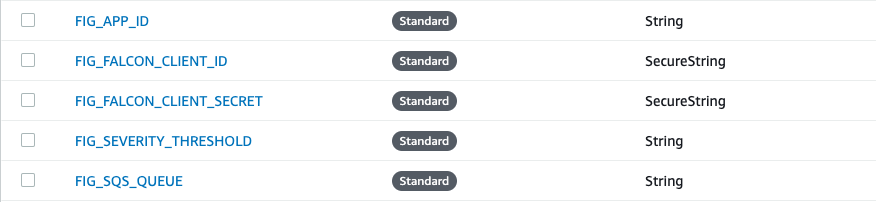
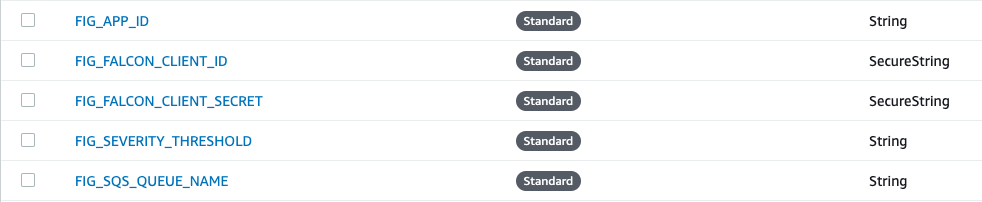
Documentation updates

diff --git a/Falcon-Integration-Gateway/README.md b/Falcon-Integration-Gateway/README.md
@@ -146,6 +146,17 @@ Additional policy attachments
 ![Instance IAM role permissions](images/fig-instance-role-policies.png)
 
 #### Creating the FIG instance and installing the service application
+The FIG service application was developed to run efficiently as a service on a small Linux EC2 instance. 
+> This instance can be scaled up as necessary. 
+
+The minimum requirements for this instance are:
++ t2.micro (or better) - 1 vCPU, 2 GB RAM
++ Amazon Linux 2 or CentOS 7
++ Python 3 and PIP3 installed
+    - boto3 client library installed via PIP (--user)
+    - requests client library installed via PIP (--user)
++ The necessary IAM permissions to access SSM parameters and publish messages to our SQS queue
++ A route to the Internet
 
 ##### Installing the FIG service during instance creation
 This solution supports execution via a User Data script, which allows for deployment via CloudFormation or Terraform.
@@ -156,11 +167,10 @@ This solution supports execution via a User Data script, which allows for deploy
 #!/bin/bash
 # version 3.0
 # This is the userdata script for newly created EC2 instances. 
-# This script should not be executed manually
 cd /var/tmp
-wget -O fig-2.0.10-install.run https://raw.githubusercontent.com/CrowdStrike/Cloud-AWS/master/Falcon-Integration-Gateway/install/fig-2.0.10-install.run
-chmod 755 fig-2.0.10-install.run
-./fig-2.0.10-install.run --target /usr/share/fig
+wget -O fig-2.0.latest-install.run https://raw.githubusercontent.com/CrowdStrike/Cloud-AWS/master/Falcon-Integration-Gateway/install/fig-2.0.latest-install.run
+chmod 755 fig-2.0.latest-install.run
+./fig-2.0.latest-install.run --target /usr/share/fig
 ```
 ##### Running the FIG automated service installer
 
@@ -179,12 +189,15 @@ The Falcon Integration Gateway service application requires six parameters be de
 + `app_id` - A unique string value that describes the name of the application you are connecting to Falcon. Most string values are supported.
 + `severity_threshold` - An integer representing the threshold for detections you want published to AWS Security Hub.
 + `sqs_queue_name` - Name of the SQS queue to publish detections to. This must reside in the region specified below.
-+ `region` - The region we will be publishing to in AWS Security Hub. This will need to match the region the SQS queue resides in.
++ `region` - The region we will be publishing to in AWS Security Hub. This will need to match the region the SQS queue resides in. For deployments leveraging SSM, this parameter does not need to be specified.
 
 > Even though detections are published to AWS Security Hub within a single AWS region, they represent detections for instances found within _all_ AWS regions.
 
 ##### Using AWS Systems Manager _Parameter Store_
-By default, service application configuration parameters are stored within AWS Systems Manager _Parameter Store_.
+By default, service application configuration parameters are stored within AWS Systems Manager _Parameter Store_ but can be overridden by using a config.json file. 
+
+SSM Parameter Store parameters are _case-sensitive_ and must reside within the same region as the FIG instance you are configuring. Please note the naming convention of the
+parameters displayed below, as the variable names must match exactly.
 
 > For deployments running multiple instances of FIG on the same instance, you _must_ use a config.json file.
 
@@ -195,7 +208,7 @@ For more detail regarding [creating parameters](https://docs.aws.amazon.com/syst
 AWS Systems Manager Parameter Store, check the [AWS Systems Manager Parameter Store documentation](https://docs.aws.amazon.com/systems-manager/latest/userguide/systems-manager-parameter-store.html).
 
 ##### config.json
-These values can also be specified to the application within a _config.json_ file. This file **must** reside within the same directory the FIG application is installed.
+Service application parameter values can also be specified within a _config.json_ file. This file **must** reside within the same directory the FIG application is installed. When present, values stored within a config.json file _take precedence_ over values provided via the AWS Systems Manager Parameter Store.
 ```json
 {
     "falcon_client_id":"FALCON_CLIENT_ID_GOES_HERE",
